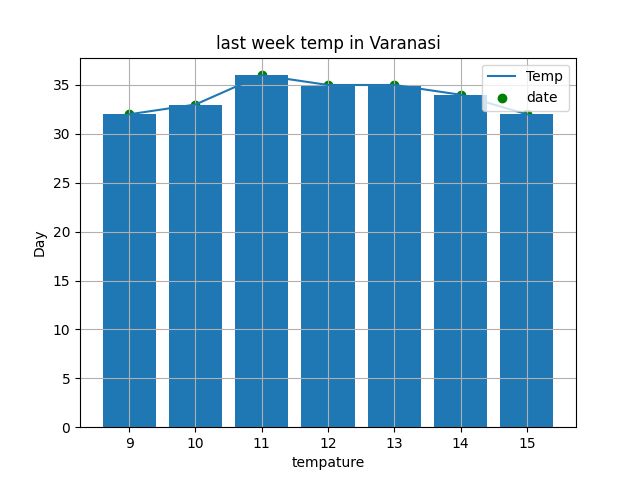
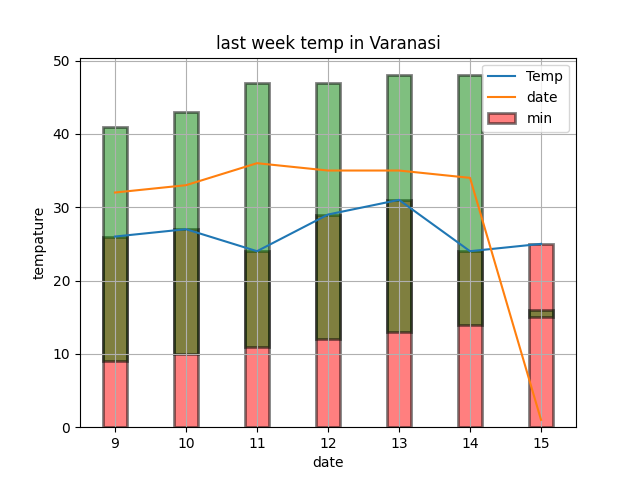
bar example

diff --git a/varanasi temp.py b/varanasi temp.py
@@ -1,19 +1,30 @@
 import matplotlib.pyplot as plt
 import numpy as np
-
-y=[32,33,36,35,35,34,32]
-x=[9,10,11,12,13,14,15]
-min=[26,27,24,29,31,24]
+bar_width = 0.35
+temp = [32, 33, 36, 35, 35, 34, 1]
+date = [9, 10, 11, 12, 13, 14, 15]
+min = [26, 27, 24, 29, 31, 24, 25]
 # y=[x*x for x in x][::-1]
 # plt.plot(x,y)
 plt.title("last week temp in Varanasi")
-plt.xlabel("tempature")
-plt.ylabel("Day")
-plt.plot(x,y)
+plt.xlabel("date")
+plt.ylabel("tempature")
 
-plt.scatter(x,y,color='Green')
-plt.bar(x,y)
+
+# plt.scatter(x,,color='Green', label='Set 1')
+bar_width = 0.35
+plt.plot(date, min)
+plt.plot(date, temp)
+plt.bar(date, min, color='red', alpha=0.5,
+        edgecolor='black', linewidth=2, width=bar_width)
+plt.bar(date, temp, color='green', alpha=0.5, edgecolor='black',
+        linewidth=2, width=bar_width, bottom=date)
 plt.grid(True)
-plt.legend(['Temp','date'])
+plt.legend(['Temp', 'date', 'min'])
+
+# for i,(x1,y2) in enumerate(zip(x,y)):
+#     plt.text(i-bar_width/2,x1+1,str(x1),ha='center', fontweight='bold')
+#     plt.text(i-bar_width/2,y2+1,str(y2),ha='center', fontweight='bold')
+
 plt.savefig("varanasitemp.png")
 plt.show()

diff --git a/barexample.py b/barexample.py
@@ -1,0 +1,35 @@
+import matplotlib.pyplot as plt
+import numpy as np
+
+# Sample data
+categories = ['Apples', 'Oranges', 'Bananas', 'Grapes']
+values1 = [2, 15, 10, 25]
+values2 = [15, 10, 15, 20]
+
+# Create a bar plot with customizations
+bar_width = 0.35
+plt.bar(categories, values1, color='orange', alpha=0.5,
+        edgecolor='black', linewidth=2, width=bar_width)
+plt.bar(categories, values2, color='blue', alpha=0.5,
+        edgecolor='black', linewidth=2, width=bar_width, bottom=values1)
+
+# Add error bars
+# errors = [2, 1, 3, 2]
+# plt.errorbar(categories, values1, yerr=errors, fmt='none', capsize=5)
+# plt.errorbar(categories, values2, yerr=errors, fmt='none', capsize=5)
+
+# # Add annotations
+# for i, (v1, v2) in enumerate(zip(values1, values2)):
+#     plt.text(i-bar_width/2, v1+1, str(v1), ha='center', fontweight='bold')
+#     plt.text(i+bar_width/2, v2+1, str(v2), ha='center', fontweight='bold')
+
+# Add a legend
+plt.legend(['Sales 1', 'Sales 2', 'Error'])
+
+# Add titles and labels
+plt.title('Fruit Sales')
+plt.xlabel('Fruit')
+plt.ylabel('Number of Sales')
+
+# Display the plot
+plt.show()

diff --git a/create a new figure and  Axes object.py b/create a new figure and  Axes object.py
@@ -1,22 +1,20 @@
 import matplotlib.pyplot as plt
 import numpy as np
 
-x=np.linspace(0,10,100)# create an array of 100 evenly spaced points  between 0 and 10
-y=np.sin(x) #calculates the sine of each x values
+# create an array of 100 evenly spaced points  between 0 and 10
+x = np.linspace(0, 10, 100)
+y = np.sin(x)  # calculates the sine of each x values
 
-ax=plt.subplots()
+ax = plt.subplots()
 
-#plot the data as a line with read color ,solid line style and a linewidth of 2
+# plot the data as a line with read color ,solid line style and a linewidth of 2
 
-ax.plot(x,y, color='red',linestyle='-',linewidth=2)
+ax.plot(x, y, color='red', linestyle='-', linewidth=2)
 
 # Set the title , x - axix label and y-axis label
-ax.set_title('Sine Wave') # set the title of the plot
-ax.set_xlabel('x-axis')# set the label for the x-axis
-ax.set_ylabel('y-axis')# set the label for the x - axis
+ax.set_title('Sine Wave')  # set the title of the plot
+ax.set_xlabel('x-axis')  # set the label for the x-axis
+ax.set_ylabel('y-axis')  # set the label for the x - axis
+
 
 plt.show()
-
-
-
-

diff --git a/line plots { sine plot}.py b/line plots { sine plot}.py
@@ -1,14 +1,22 @@
 import matplotlib.pyplot as plt
+import json
+import requests
+
 
 import numpy as np
-#simple plots
+# simple plots
 # Generate some data for the plot
+url = ("https://gist.githubusercontent.com/Karkv/fd34b366c7e33d78d1227d59eb38f0dc/raw/4a1f46d7e97787a4fe01816a4ece98f3837971ad/mlgraph")
+responce = requests.get(url)
+data = responce.text
+data = json.loads(data)
+x = data["x"]
+y = data["y"]
 
-x=np.linspace(0,10,100) #Create as array of 100 evenly spaced points between 0 and 10
+plt.plot(x, y)
 
-y=np.sin(x) 
 plt.grid(True)
 
 
-plt.scatter(x,y)
+plt.scatter(x, y)
 plt.show()

diff --git a/plotdemo.py b/plotdemo.py
@@ -1,9 +1,9 @@
 import matplotlib.pyplot as plt
-x=[1,2,3,4,5,6]
-y=[2,4,6,8,10,12]
-y=[-x*x for x in x][::-1]
-plt.scatter(x,y)
-plt.plot(x,y)
+x = [1, 2, 3, 4, 5, 6]
+y = [2, 4, 6, 8, 10, 12]
+y = [-x*x for x in x][::-1]
+plt.scatter(x, y)
+plt.plot(x, y)
 plt.grid(True)
 plt.xlabel("X")
 plt.ylabel("Y")
